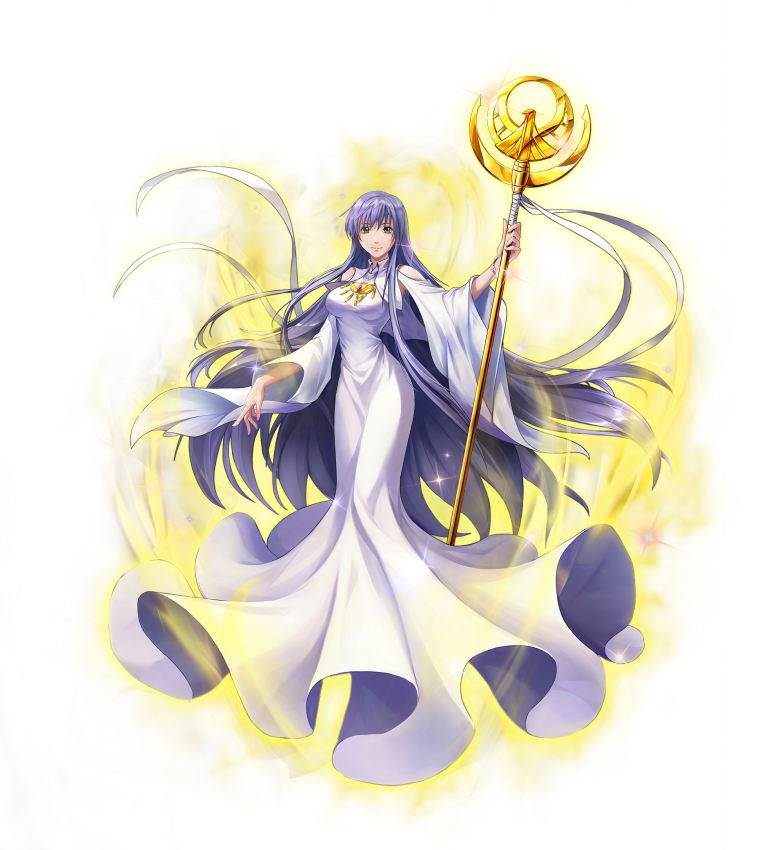
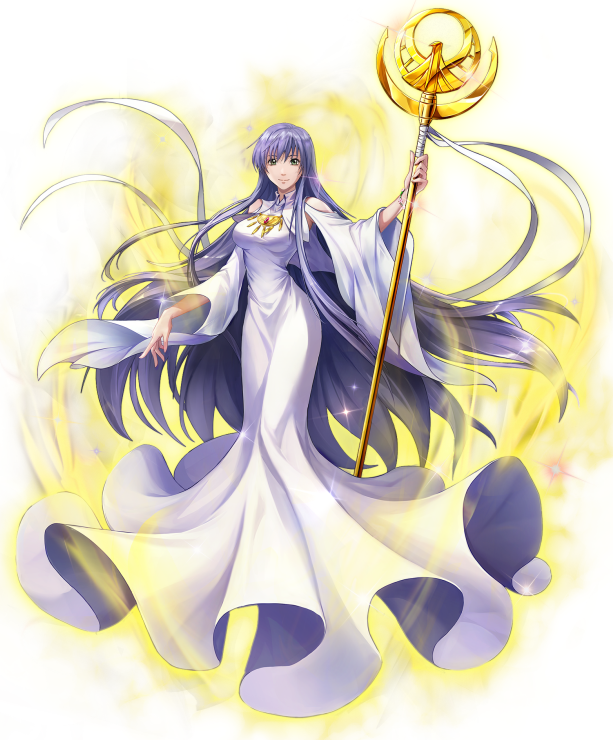
adjust css & npc1 of ss prject to avoid view overflow

diff --git a/src/ProjectView/ProjectSummaryElement_SaintSeiya.tsx b/src/ProjectView/ProjectSummaryElement_SaintSeiya.tsx
@@ -21,11 +21,7 @@ class ProjectSummaryElement_SaintSeiya extends React.Component {
             <section id="project_ss_section">
                 <div className="StandardProjectSummaryElement" style={{ backgroundImage: `url(${BackgroundUri})`, backgroundSize: "100% auto"}}>
                     <div id={id_title} className="StandardProjectSummaryElementTitle">
-                        <div  style={{
-                            fontFamily: "Quicksand, Merriweather, serif", width: "80%", textAlign: "center",
-                            borderRadius : 10 ,backgroundColor: "#FFFFFFA0",
-                            display: "flex", justifyContent: "space-between", zIndex: 1, position: "relative"
-                        }}>
+                        <div>
                             <div style={{ display: "flex" }}>
                                 <div style={{ color: "#594F42", height: "50%", fontSize: "40px",
                                     letterSpacing: ".2em", padding: "0 10px"
@@ -65,8 +61,8 @@ class ProjectSummaryElement_SaintSeiya extends React.Component {
                                 </ProjectPhotoSlider>
                             </div>
                         </div>
-                        <div style={{ position: "absolute", bottom: "-20px", right: "-30px",
-                            minWidth: "200px", width: "45vw" }}>
+                        <div style={{ position: "absolute", bottom: "0", right: "0",
+                            minWidth: "200px", width: "35vw" }}>
                             <img style={{ width: "100%" }}
                                  src={require("../assets/past_project_resources/saint_seiya/npc1.png")}
                             />

diff --git a/src/ProjectView/ProjectSummaryElement_MergeElfLand.tsx b/src/ProjectView/ProjectSummaryElement_MergeElfLand.tsx
@@ -20,11 +20,7 @@ class ProjectSummaryElement_MergeElfLand extends React.Component {
             <section id="project_merge_section">
                 <div className="StandardProjectSummaryElement" style={{ backgroundImage: `url(${BackgroundUri})`, backgroundSize: "100% auto"}}>
                     <div id={id_title} className="StandardProjectSummaryElementTitle">
-                        <div  style={{
-                            fontFamily: "Quicksand, Merriweather, serif", width: "80%", textAlign: "center",
-                            borderRadius : 10 ,backgroundColor: "#FFFFFFA0",
-                            display: "flex", justifyContent: "space-between", zIndex: 1, position: "relative"
-                        }}>
+                        <div>
                             <div style={{ display: "flex" }}>
                                 <div style={{ color: "#594F42", height: "50%", fontSize: "40px",
                                     letterSpacing: ".2em", padding: "0 10px"

diff --git a/src/ProjectView/ProjectSummaryElement_HotelFever.tsx b/src/ProjectView/ProjectSummaryElement_HotelFever.tsx
@@ -21,11 +21,7 @@ class ProjectSummaryElement_HotelFever extends React.Component {
             <section id="project_h3_section">
                 <div className="StandardProjectSummaryElement" style={{ backgroundImage: `url(${BackgroundUri})`, backgroundSize: "100% auto"}}>
                     <div id={id_title} className="StandardProjectSummaryElementTitle">
-                        <div  style={{
-                            fontFamily: "Quicksand, Merriweather, serif", width: "80%", textAlign: "center",
-                            borderRadius : 10 ,backgroundColor: "#FFFFFFA0",
-                            display: "flex", justifyContent: "space-between", zIndex: 1, position: "relative"
-                        }}>
+                        <div>
                             <div style={{ display: "flex" }}>
                                 <div style={{ color: "#594F42", height: "50%", fontSize: "40px",
                                     letterSpacing: ".2em", padding: "0 10px"

diff --git a/src/ProjectView/ProjectSummaryElement_GalaxyLegend.tsx b/src/ProjectView/ProjectSummaryElement_GalaxyLegend.tsx
@@ -21,11 +21,7 @@ class ProjectSummaryElement_GalaxyLegend extends React.Component {
             <section id="project_gl_section">
                 <div className="StandardProjectSummaryElement" style={{ background: `url(${BackgroundUri})`, backgroundSize: "100% auto"}}>
                     <div id={id_title} className="StandardProjectSummaryElementTitle">
-                        <div  style={{
-                            fontFamily: "Quicksand, Merriweather, serif", width: "80%", textAlign: "center",
-                            borderRadius : 10 ,backgroundColor: "#FFFFFFA0",
-                            display: "flex", justifyContent: "space-between", zIndex: 1, position: "relative"
-                        }}>
+                        <div>
                             <div style={{ display: "flex" }}>
                                 <div style={{ color: "#594F42", height: "50%", fontSize: "40px",
                                     letterSpacing: ".2em", padding: "0 10px"

diff --git a/src/ProjectView/ProjectSummaryElement_Palia.tsx b/src/ProjectView/ProjectSummaryElement_Palia.tsx
@@ -23,11 +23,7 @@ class ProjectSummaryElement_Palia extends React.Component {
             <section id="project_palia_section">
                 <div className="StandardProjectSummaryElement" style={{ backgroundColor : "#FEF4E6" }}>
                     <div id={id_title} className="StandardProjectSummaryElementTitle">
-                        <div  style={{
-                            fontFamily: "Quicksand, Merriweather, serif", width: "80%", textAlign: "center",
-                            borderRadius : 10 ,backgroundColor: "#FFFFFFA0",
-                            display: "flex", justifyContent: "space-between", zIndex: 1, position: "relative"
-                        }}>
+                        <div>
                             <div style={{ display: "flex" }}>
                                 <div style={{ color: "#594F42", height: "50%", fontSize: "40px",
                                     letterSpacing: ".2em", padding: "0 10px"

diff --git a/src/ProjectView/ProjectSummaryElement.css b/src/ProjectView/ProjectSummaryElement.css
@@ -7,7 +7,17 @@
 .StandardProjectSummaryElementTitle
 {
     padding: 20px 10%;
-    width: 100%;
+}
+
+.StandardProjectSummaryElementTitle > div {
+    font-family: Quicksand, Merriweather;
+    text-align: center;
+    border-radius: 10px;
+    background-color: #FFFFFFA0;
+    display: flex;
+    justify-content: space-between;
+    z-index: 1;
+    position: relative;
 }
 
 .SummaryEngineButtonWithoutClick
